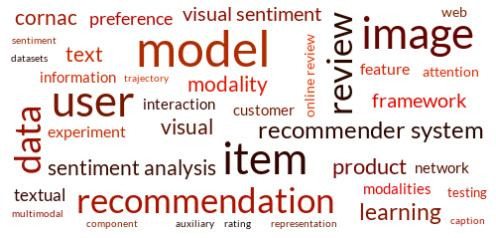
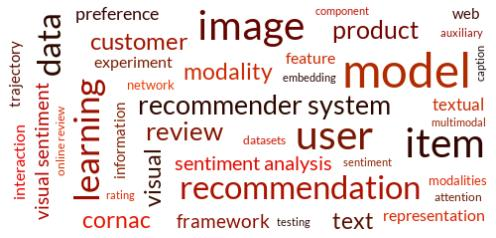
update

diff --git a/index.html b/index.html
@@ -86,16 +86,18 @@
                     <p>
                         I am an Applied Scientist at <a target="_blank" href="https://www.amazon.science"
                             onclick="trackEvent('https://www.amazon.science', 'view', 'info', 'Amazon Science');">Amazon</a>
-                        in Pricing Science where I work on item typical price
-                        estimation, forecasting, and moderation on WW Amazon Stores.
-                        Previously, I was in Personalization working on user preference learning, ranking, and efficient
-                        retrieval for item recommendation.
+                        Personalization where I work on representation learning, preference learning/ranking, and
+                        efficient
+                        retrieval for item recommendation. Previously, I was in Pricing Science working on
+                        item typical
+                        price estimation, forecasting, and improving pricing systems of WW Amazon Stores.
                     </p>
                     <p style="margin-top: 10px;">
-                        I grew up in Vietnam (xin chào!) and went to VNU Hanoi for my undergrad. Thereafter, I came to
+                        Growing up in Vietnam (xin chào!), I went to VNU Hanoi for my undergrad. Thereafter, I came to
                         Singapore and did my
                         PhD at SMU, working with Prof. <a target="_blank" href="http://www.hadylauw.com/"
-                            onclick="trackEvent('http://www.hadylauw.com/', 'view', 'info', 'www.hadylauw.com');">Hady W. Lauw</a>. My thesis is focused on modeling preferences from
+                            onclick="trackEvent('http://www.hadylauw.com/', 'view', 'info', 'www.hadylauw.com');">Hady
+                            W. Lauw</a>. My thesis is focused on modeling preferences from
                         multimodal data and its application in recommender systems.
                     </p>
                 </div>
@@ -106,7 +108,7 @@
 
             <div id="research">
                 <div class="research-col-1">
-                    <img src="./assets/wc.jpg?v=1.14" />
+                    <img src="./assets/wc.jpg?v=1.15" />
                 </div>
                 <div class="research-col-2">
                     <p id="title"><strong>Research Interests:</strong>
@@ -117,10 +119,10 @@
                         <li>Web Mining and Learning from Human Behavioral Data</li>
                     </ul>
                     <p>
-                        I developed <a target="_blank" href="https://github.com/PreferredAI/cornac"
+                        Alongside of my research, I developed <a target="_blank"
+                            href="https://github.com/PreferredAI/cornac"
                             onclick="trackEvent('https://github.com/PreferredAI/cornac', 'view', 'info', 'Cornac');">Cornac</a>
-                        framework to ease the research and development of multimodal recommender systems. These <a
-                            target="_blank"
+                        framework to ease the development of multimodal recommender systems. These <a target="_blank"
                             href="https://github.com/PreferredAI/tutorials/tree/master/recommender-systems"
                             onclick="trackEvent('https://github.com/PreferredAI/tutorials/tree/master/recommender-systems', 'view', 'info', 'tutorials');">tutorials</a>
                         (also <a target="_blank"
@@ -148,7 +150,9 @@
                     Y. Chen, Q. T. Truong, X. Shen, J. Li, and I. King.
                     <strong>Shopping Trajectory Representation Learning with Pre-training for E-commerce Customer
                         Understanding and Recommendation</strong>.
-                    <i>ACM SIGKDD Conference on Knowledge Discovery and Data Mining (KDD'24)</i>.
+                    <i>ACM SIGKDD Conference on Knowledge Discovery and Data Mining (KDD'24)</i>.&nbsp;&nbsp;&nbsp;
+                    [<a target="_blank" href="https://drive.google.com/file/d/1DhB57xwUDPxUXLpLfAZ1E-Y2dtMJ64Bz"
+                        onclick="trackEvent('https://drive.google.com/file/d/1DhB57xwUDPxUXLpLfAZ1E-Y2dtMJ64Bz', 'pdf', 'publications', 'kdd24');">pdf</a>]
                 </li>
                 <li class="conf">
                     D. Ong, Q. T. Truong, and H. W. Lauw.

diff --git a/wc.py b/wc.py
@@ -1,4 +1,7 @@
 text = """
+Shopping Trajectory Representation Learning with Pre-training for E-commerce Customer Understanding and Recommendation
+Learning compact representation from customer shopping behaviors is at the core of web-scale E-commerce recommender systems. At Amazon, we put great efforts into learning embedding of customer engagements in order to fuel multiple downstream tasks for better recommendation services. In this work, we define the notion of shopping trajectory that consists of customer interactions at the categorical level of products, then construct an end-to-end model namely C-STAR which is capable of learning rich embedding for representing the variable-length customer trajectory. C-STAR explicitly captures the trajectory distribution similarity and trajectory topological semantics, providing a coarse-to-fine trajectory representation learning paradigm both structurally and semantically. We evaluate the model on Amazon proprietary data as well as four public datasets, where the learned embeddings have shown to be effective for customer-centric tasks including customer segmentation and shopping trajectory completion.
+
 Cornac-AB: An Open-Source Recommendation Framework with Native A/B Testing Integration
 Recommender systems significantly impact user experience across diverse domains, yet existing frameworks often prioritize offline evaluation metrics, neglecting the crucial integration of A/B testing for forward-looking assessments. In response, this paper introduces a new framework seamlessly incorporating A/B testing into the Cornac recommendation library. Leveraging a diverse collection of model implementations in Cornac, our framework enables effortless A/B testing experiment setup from offline trained models. We introduce a carefully designed dashboard and a robust backend for efficient logging and analysis of user feedback. This not only streamlines the A/B testing process but also enhances the evaluation of recommendation models in an online environment. Demonstrating the simplicity of on-demand online model evaluations, our work contributes to advancing recommender system evaluation methodologies, underscoring the significance of A/B testing and providing a practical framework for implementation. The framework is open-sourced at https://github.com/PreferredAI/cornac-ab.
 
@@ -88,6 +91,9 @@ STOPWORDS.update(
         "oriented",
         "b",
         "multiple",
+        "task",
+        "capture",
+        "better",
     ]
 )
 
@@ -100,8 +106,8 @@ wc = WordCloud(
     color_func=color_fn,
     max_words=94,
     stopwords=STOPWORDS,
-    min_font_size=10,
-    max_font_size=50,
+    min_font_size=8,
+    max_font_size=48,
     random_state=94,
 ).generate(text.strip().lower())
 
